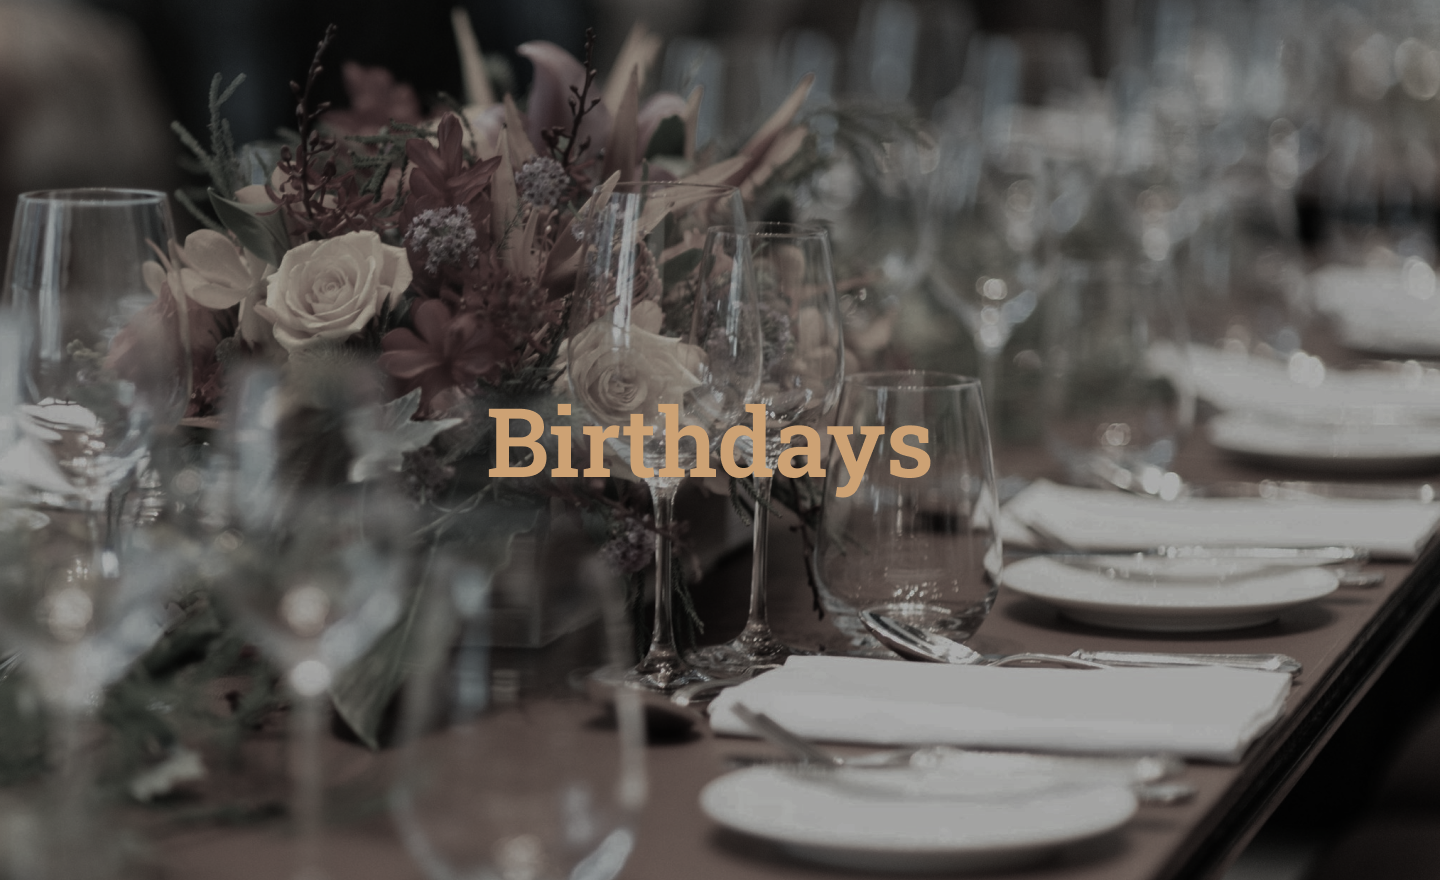
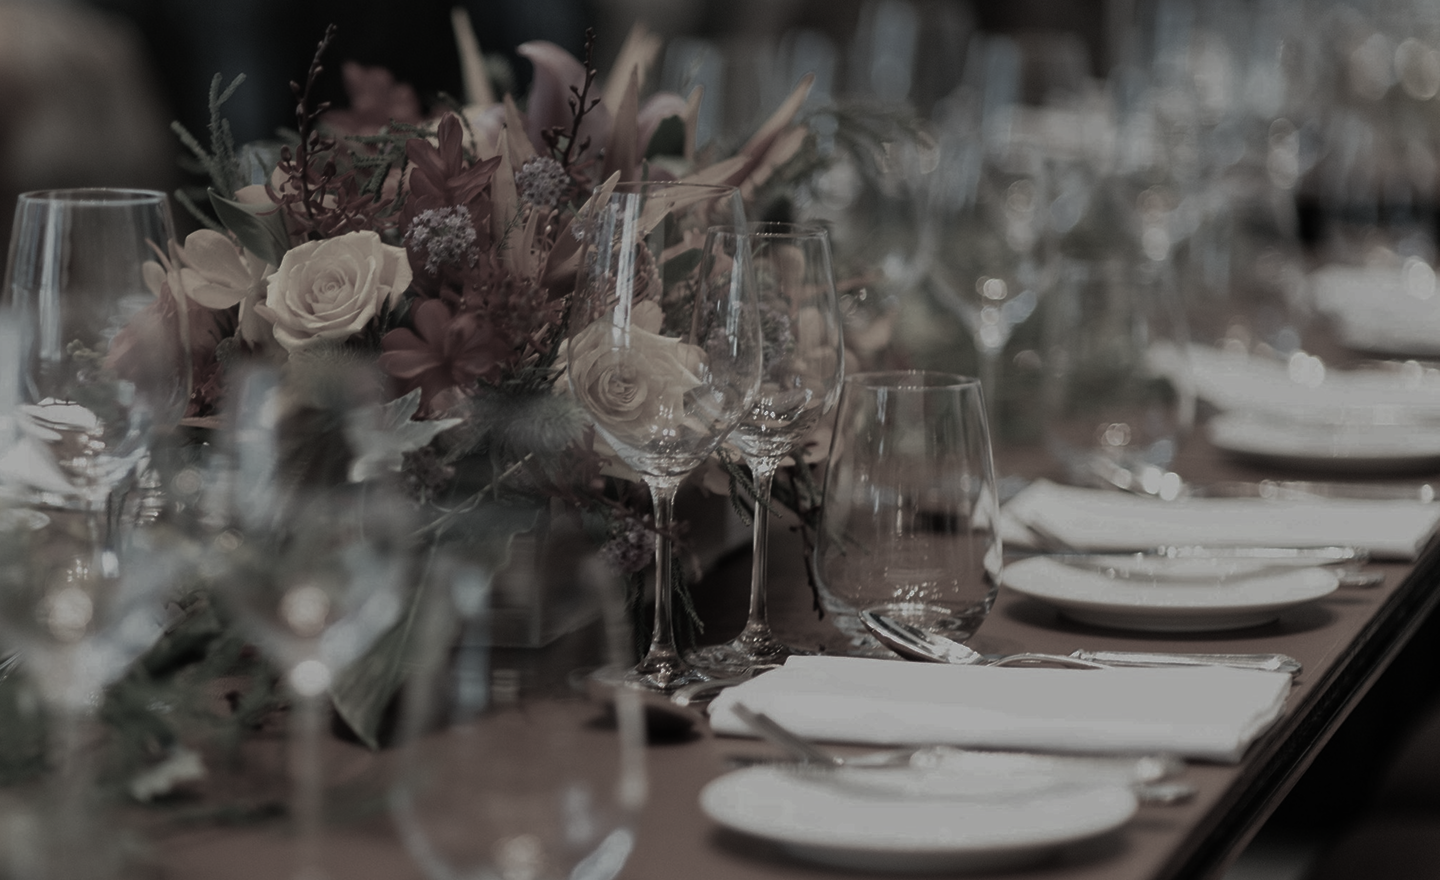
updates to the hero section image

Changed region(s): [[0.3438, 0.4602, 0.6562, 0.583]]

diff --git a/app/components/home/HeroHeader.tsx b/app/components/home/HeroHeader.tsx
@@ -78,7 +78,7 @@ const HeroHeader = () => {
         autoplaySpeed={5000}
         nextArrow={<NextArrow onClick={() => {}} />}
         prevArrow={<PrevArrow onClick={() => {}} />}
-        className="w-full h-full"
+        className="w-full h-full overflow-hidden"
         afterChange={handleAfterChange}
         // beforeChange={(_, newIndex) => handleBeforeChange(newIndex)}
       >
@@ -89,14 +89,16 @@ const HeroHeader = () => {
             animate={{ opacity: 1 }}
             exit={{ opacity: 0 }}
             transition={{ duration: 1 }}
-            className="w-full h-[85vh] md:h-full"
+            className="w-full h-full overflow-hidden "
           >
             <Image
               src={image}
               alt={`hero ${index}`}
-              className="w-full h-full object-cover object-center"
+              className="w-full md:h-screen"
               priority
               sizes="100vw"
+              style={{ objectFit: "fill", objectPosition: "center" }}
+              placeholder = 'blur'
             />
           </motion.div>
         ))}
